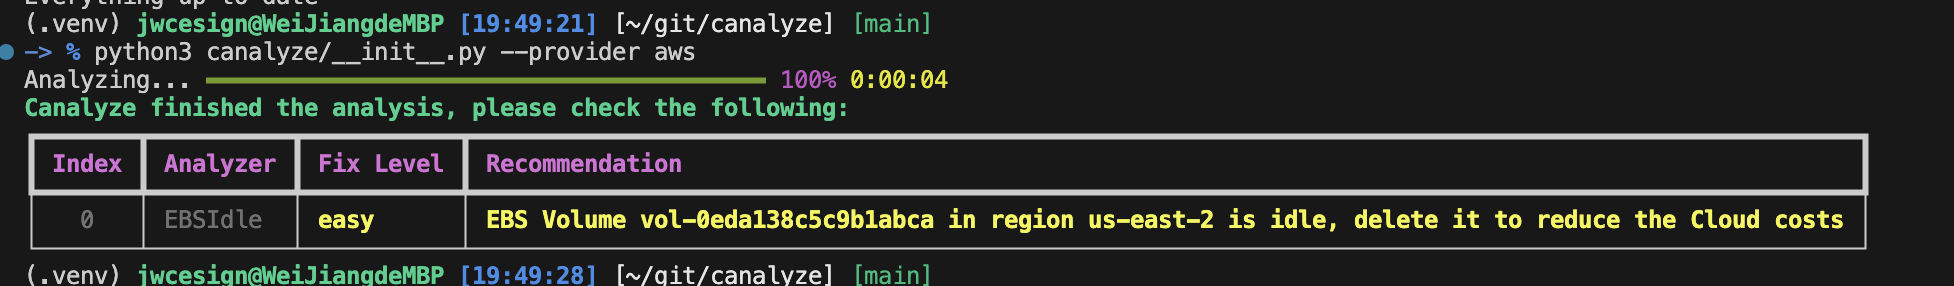
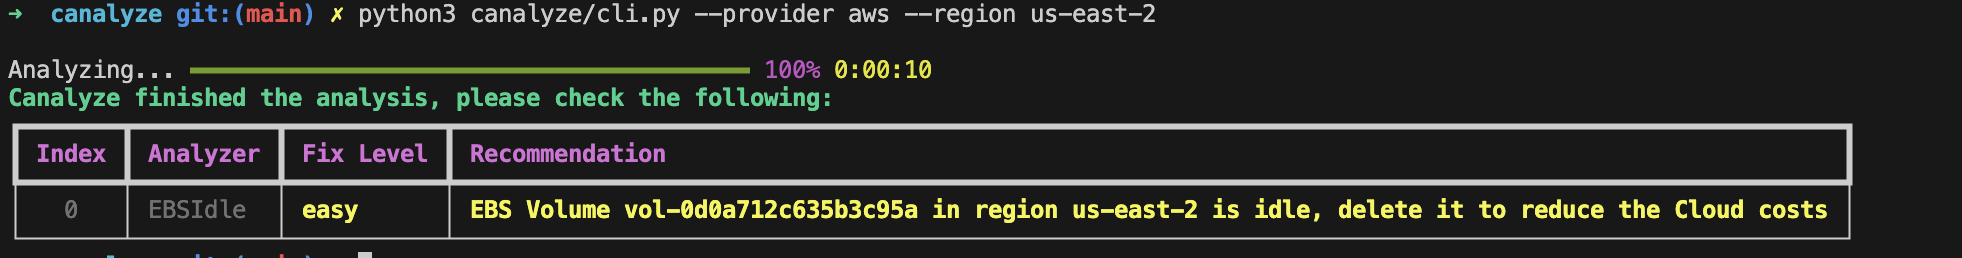
feat: re organize the file structure

Changed region(s): [[0.0, 0.4651, 0.9678, 1.0], [0.0, 0.155, 0.4995, 0.4341], [0.0, 0.0, 0.5931, 0.124]]

diff --git a/setup.py b/setup.py
@@ -1,19 +1,29 @@
 from setuptools import setup, find_packages
 
-with open('README.md') as f:
+with open('README.md', 'r', encoding='utf-8') as f:
     readme = f.read()
 
-with open('LICENSE') as f:
+with open('LICENSE', 'r', encoding='utf-8') as f:
     license = f.read()
 
 setup(
     name='canalyze',
-    version='0.1.0',
+    version='0.2.0',
     description='A cloud analysis tool designed to identify opportunities for cost savings in your cloud infrastructure.',
     long_description=readme,
+    long_description_content_type='text/markdown',
     author='jwcesign',
     author_email='jwcesign@gmail.com',
     url='https://github.com/jwcesign/canalyze',
+    entry_points={
+        'console_scripts': [
+            'canalyze=canalyze.cli:main'  # Replace 'main' and 'main' with the actual module and function
+        ]
+    },
     license=license,
-    packages=find_packages(exclude=('tests', 'docs'))
+    packages=find_packages(exclude=('tests', 'docs')),
+    install_requires=['boto3', 'rich'],  # Add dependencies here if your project has any
+    python_requires='>=3.6',  # Specify minimum Python version
+    include_package_data=True,
+    zip_safe=False
 )

diff --git a/README.md b/README.md
@@ -1,12 +1,23 @@
 # canalyze  
 
-**A cloud analysis tool designed to help you identify cost-saving opportunities in your cloud infrastructure.**  
+A cloud analysis tool designed to help you identify cost-saving opportunities in your cloud infrastructure.
+
+## Installation
+
+Currently, `canalyze` is not packaged for installation with a single command. However, you can try it out by following these steps:
+
+```bash
+git clone https://github.com/jwcesign/canalyze.git
+cd canalyze
+python3 -m pip install -r requirements.txt
+python3 canalyze/cli.py --provider aws --region us-east-2
+```
 
 ## How It Works  
 
 Run the command:  
 ```bash
-canalyze --provider aws --region us-east-2
+python3 canalyze/cli.py --provider aws --region us-east-2
 ```  
 
 This will generate results like the following:  
@@ -15,6 +26,6 @@ This will generate results like the following:
 
 Follow the provided recommendations to optimize your cloud setup and reduce costs effectively.
 
-## Installation
+## License
 
-TBD
+This project is released under the [Apache 2.0 License](LICENSE).
